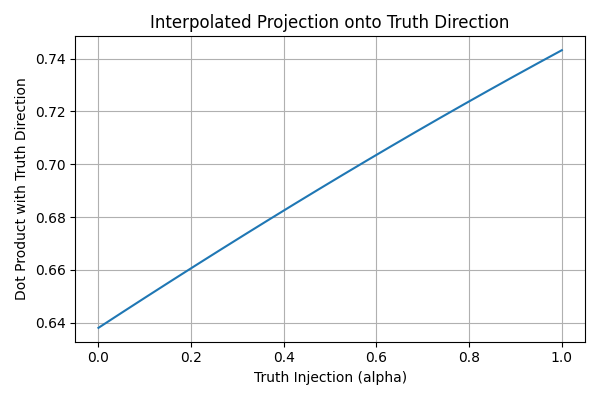
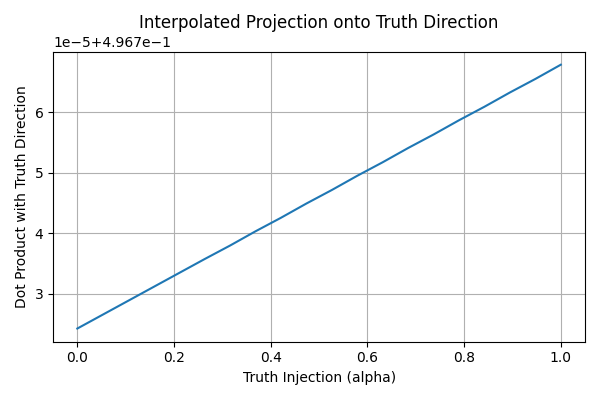
Generates arithmetic dataset

diff --git a/20250422 Toy Model/main.py b/20250422 Toy Model/main.py
@@ -19,11 +19,13 @@ import matplotlib.pyplot as plt
 from transformers import BertTokenizer, BertModel
 from datasets import load_dataset
 from sklearn.model_selection import train_test_split
+import random
 
 # --------------------
 # ✅ Choose dataset source: 'truthfulqa', 'boolq', or 'both'
 # --------------------
-dataset_source = "truefalse"  # options: "truthfulqa", "boolq", "truefalse", or "all"
+# options: "truthfulqa", "boolq", "truefalse", or "all"
+dataset_source = "arithmetic"
 
 # ✅ Model config
 bert_model_name = "bert-large-uncased"  # or "bert-base-uncased"
@@ -49,6 +51,28 @@ print("✅ BERT is ready.")
 # --------------------
 # ✅ Load dataset
 # --------------------
+
+
+def generate_arithmetic_dataset(n=5000):
+    data = []
+    while len(data) < n:
+        a = random.randint(0, 100)
+        b = random.randint(0, 100)
+
+        # 50% chance of being true
+        if len(data) % 2 == 0:
+            correct_sum = a + b
+            text = f"{a} + {b} = {correct_sum}"
+            label = 1
+        else:
+            incorrect_sum = a + b + random.choice(
+                [i for i in range(-10, 11) if i != 0])  # avoid correct answer
+            text = f"{a} + {b} = {incorrect_sum}"
+            label = 0
+
+        data.append({"text": text, "label": label})
+
+    return data
 
 print(f"📄 Loading dataset: {dataset_source.upper()}")
 
@@ -106,6 +130,12 @@ if dataset_source in ["truefalse", "all"]:
         examples.append({"text": row["statement"], "label": row["label"]})
 
     print(f"✅ TRUEFALSE added. Total examples now: {len(examples)}")
+
+if dataset_source in ["arithmetic", "all"]:
+    print("📐 Generating ARITHMETIC dataset...")
+    arithmetic = generate_arithmetic_dataset(5000)
+    examples.extend(arithmetic)
+    print(f"✅ Arithmetic dataset added. Total examples now: {len(examples)}")
 
 print(f"✅ Prepared {len(examples)} labeled examples for probing.")
 
